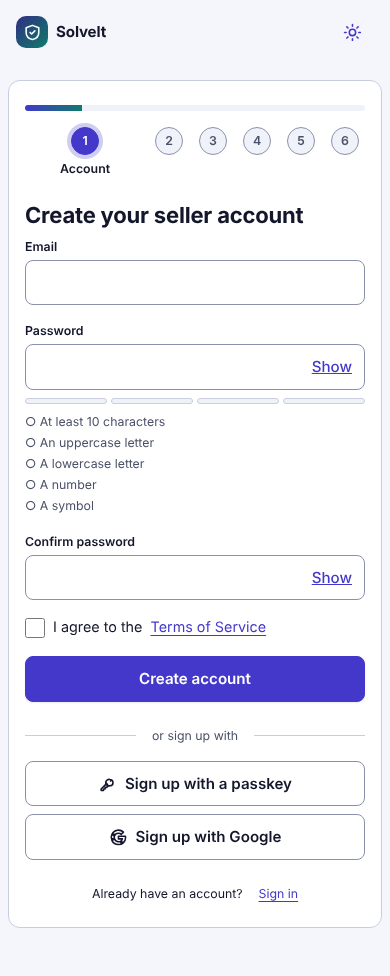
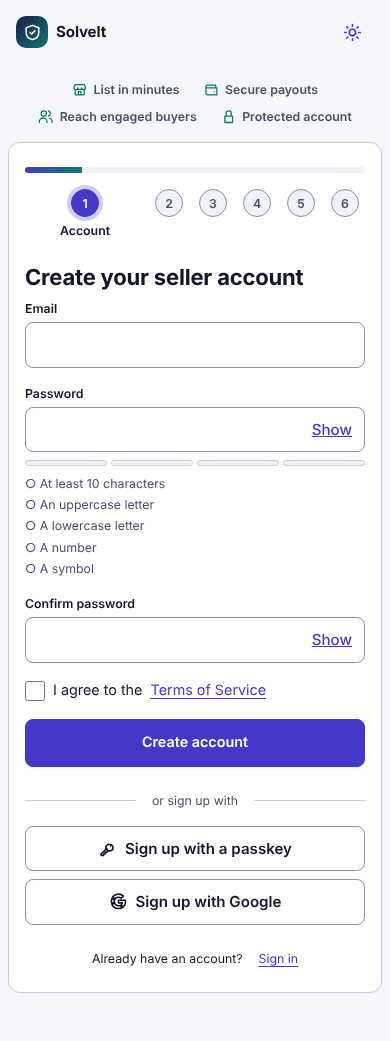
Marketplace-style auth: seller brand panel with storefront mock-up, top-bar cross-link, signup benefits strip; refreshed screenshots
Claude-Session: https://claude.ai/code/session_018hZb8p3U4e1ZXzoHRqf6yf

diff --git a/src/components/ui.tsx b/src/components/ui.tsx
@@ -1,5 +1,5 @@
 import { Children, forwardRef, useEffect, useId, useState, type ButtonHTMLAttributes, type InputHTMLAttributes, type ReactNode } from 'react'
-import { Link } from 'react-router-dom'
+import { Link, useLocation } from 'react-router-dom'
 import { passwordChecks } from '../lib/password'
 
 export function Alert({ children, kind = 'error' }: { children?: ReactNode; kind?: 'error' | 'info' | 'success' }) {
@@ -64,6 +64,10 @@ const PATHS = {
   sun: 'M12 8a4 4 0 100 8 4 4 0 000-8zM12 2v2M12 20v2M4.900 4.900l1.400 1.400M17.700 17.700l1.400 1.400M2 12h2M20 12h2M4.900 19.100l1.400-1.400M17.700 6.300l1.400-1.400',
   moon: 'M21 13A9 9 0 1111 3a7 7 0 0010 10z',
   lock: 'M6 11h12v10H6zM8 11V7a4 4 0 018 0v4',
+  store: 'M3 9l1.5-5h15L21 9M3 9a3 3 0 006 0 3 3 0 006 0 3 3 0 006 0M5 12v8h14v-8M10 20v-5h4v5',
+  wallet: 'M3 7a2 2 0 012-2h13v4M3 7v11a2 2 0 002 2h15V9H5a2 2 0 01-2-2zM16 14.5h.01',
+  users: 'M9 11a4 4 0 100-8 4 4 0 000 8zM2 21v-1a6 6 0 0112 0v1M16 3.100a4 4 0 010 7.800M22 21v-1a6 6 0 00-4-5.600',
+  star: 'M12 3l2.800 5.700 6.200.9-4.500 4.400 1 6.200L12 17.200 6.500 20.200l1-6.200L3 9.600l6.200-.9z',
   save: 'M5 3h11l3 3v15H5zM8 3v5h7V3M8 21v-7h8v7',
 } as const
 export type IconName = keyof typeof PATHS
@@ -103,25 +107,34 @@ export function Logo() {
 
 /** Page shell: brand panel (desktop, auth screens) + top bar with theme toggle. */
 export function Shell({ children, split }: { children: ReactNode; split?: boolean }) {
+  const { pathname } = useLocation()
+  const cross = !split ? null : pathname.startsWith('/signup') ? { q: 'Already selling?', to: '/login', t: 'Sign in' } : pathname === '/login' ? { q: 'New to Solvelt?', to: '/signup', t: 'Start selling' } : null
   return (
     <div className={split ? 'shell split' : 'shell'}>
       {split && (
         <aside className="shell-brand" aria-hidden="true">
           <span className="logo"><span className="logo-mark"><Icon name="shield" /></span><span>Solvelt</span></span>
           <div className="brand-copy">
-            <h2>Sell to the whole community.</h2>
-            <p>One portal for your storefront, kosher certification and payouts.</p>
+            <span className="brand-eyebrow">Solvelt for sellers</span>
+            <h2>Open your shop. Reach more buyers.</h2>
+            <p>Join the marketplace built for the community: list your products, get approved fast and get paid securely.</p>
+            <div className="shop-mock">
+              <div className="shop-bar"><Icon name="store" /> <b>Your storefront</b><span className="pill">Live</span></div>
+              <div className="shop-grid">
+                {['t1', 't2', 't3', 't4', 't5', 't6'].map((t) => <div key={t} className={`tile ${t}`}><i /><span /></div>)}
+              </div>
+            </div>
             <ul className="brand-points">
-              <li><Icon name="lock" /> Passkeys and two-step verification keep your account yours</li>
-              <li><Icon name="save" /> Your application saves as you go</li>
-              <li><Icon name="check" /> Most applications are reviewed within two business days</li>
+              <li><span className="bp-ic"><Icon name="store" /></span><span><b>List in minutes</b><br />Set up your storefront and add products as soon as you are approved.</span></li>
+              <li><span className="bp-ic"><Icon name="wallet" /></span><span><b>Secure payouts</b><br />Clear fees, protected payments and reliable payouts.</span></li>
+              <li><span className="bp-ic"><Icon name="users" /></span><span><b>A community of buyers</b><br />Get discovered by shoppers who already trust the marketplace.</span></li>
             </ul>
           </div>
-          <div className="brand-foot">© Solvelt · Secured sign-in</div>
+          <div className="brand-foot"><span><Icon name="lock" /> Secured sign-in with passkeys and 2-step verification</span><span>© Solvelt</span></div>
         </aside>
       )}
       <div className="shell-main">
-        <div className="topbar">{split ? <span className="logo-mini-spacer" /> : null}<Logo /><span className="spacer" /><ThemeToggle /></div>
+        <div className="topbar">{split ? <span className="logo-mini-spacer" /> : null}<Logo /><span className="spacer" />{cross && <span className="topbar-cross"><span className="topbar-q">{cross.q}</span> <Link className="btn topbar-cta" to={cross.to}>{cross.t}</Link></span>}<ThemeToggle /></div>
         <div className="shell-content">{children}</div>
       </div>
     </div>

diff --git a/src/styles.css b/src/styles.css
@@ -7,7 +7,7 @@
   --primary: #4338ca; --primary-hover: #3730a3; --primary-fg: #ffffff; --primary-soft: #e8e9fb;
   --accent: #0e7c6b;
   --err: #b42318; --err-soft: #fdecea; --ok: #067647; --ok-soft: #e3f6ec; --info-soft: #e8e9fb; --warn: #8a5a00;
-  --ring: #6366f1; --brand-from: #312e81; --brand-to: #0e7c6b; --brand-fg: #ffffff;
+  --ring: #6366f1; --brand-from: #1e1b4b; --brand-to: #0f766e; --brand-fg: #ffffff;
   /* type: fluid scale, system font stack (no webfont requests, no layout shift) */
   --font: system-ui, -apple-system, 'Segoe UI', Roboto, 'Helvetica Neue', sans-serif;
   --fs-sm: clamp(.8125rem, .79rem + .1vw, .875rem); --fs-base: clamp(.9375rem, .91rem + .15vw, 1rem);
@@ -153,3 +153,28 @@ pre { background: var(--surface-2); padding: var(--s2); border-radius: var(--r-s
 
 .app-header ~ .shell .topbar { display: none; }
 .app-header a { text-decoration: none; font-weight: 600; } .app-header { flex-wrap: wrap; }
+
+/* ---- marketplace look: seller panel, storefront mock, top-bar cross link ---- */
+.brand-eyebrow { display: inline-block; font-size: var(--fs-sm); font-weight: 700; letter-spacing: .08em; text-transform: uppercase; background: rgba(255,255,255,.16); padding: 4px 12px; border-radius: var(--r-pill); margin-bottom: var(--s2); }
+.shop-mock { margin: var(--s3) 0; background: rgba(255,255,255,.96); color: #14172b; border-radius: var(--r-md); padding: var(--s2); box-shadow: var(--shadow-3); max-width: 420px; transform: rotate(-1.5deg); }
+.shop-bar { display: flex; align-items: center; gap: var(--s1); margin-bottom: var(--s1); font-size: var(--fs-sm); } .shop-bar .pill { margin-left: auto; background: #e3f6ec; color: #067647; font-weight: 700; font-size: .75rem; padding: 2px 10px; border-radius: var(--r-pill); }
+.shop-grid { display: grid; grid-template-columns: repeat(3, 1fr); gap: var(--s1); }
+.tile { border-radius: var(--r-sm); background: #f0f2f9; padding: 6px; } .tile i { display: block; aspect-ratio: 1; border-radius: 6px; background: linear-gradient(135deg, var(--c1), var(--c2)); } .tile span { display: block; height: 6px; width: 60%; background: #c9cde0; border-radius: 3px; margin-top: 6px; }
+.t1 { --c1: #fbbf24; --c2: #f97316; } .t2 { --c1: #a5b4fc; --c2: #6366f1; } .t3 { --c1: #5eead4; --c2: #0d9488; } .t4 { --c1: #fda4af; --c2: #e11d48; } .t5 { --c1: #bef264; --c2: #65a30d; } .t6 { --c1: #fcd34d; --c2: #b45309; }
+.brand-points { gap: var(--s2); } .brand-points li { align-items: flex-start; line-height: 1.4; } .brand-points b { font-size: var(--fs-base); }
+.bp-ic { flex: none; width: 36px; height: 36px; border-radius: 10px; background: rgba(255,255,255,.16); display: inline-flex; align-items: center; justify-content: center; }
+.brand-foot { display: flex; justify-content: space-between; gap: var(--s2); flex-wrap: wrap; }
+.topbar-cross { display: inline-flex; align-items: center; gap: var(--s1); font-size: var(--fs-sm); } .topbar-q { color: var(--muted); }
+.topbar-cta { min-height: 40px; padding: 6px 16px; border-radius: var(--r-pill); font-size: var(--fs-sm); }
+@media (max-width: 559px) { .topbar-q { display: none; } .shop-mock { display: none; } }
+@media (min-width: 960px) { .shell.split .shell-brand { overflow: auto; } .shell.split .logo-mini-spacer + .logo { display: none; } .shell.split .topbar { padding: var(--s3) var(--s5) 0; } }
+.shell.split .card { box-shadow: var(--shadow-1); border-radius: var(--r-md); }
+.social .btn { justify-content: flex-start; padding-inline: var(--s2); } .social .btn .icon { margin-right: var(--s1); } .social .btn { position: relative; }
+.btn.primary.block { min-height: 48px; font-size: var(--fs-base); }
+
+.wizard-col { width: 100%; max-width: 760px; }
+.seller-strip { list-style: none; margin: 0 0 var(--s2); padding: 0; display: flex; flex-wrap: wrap; gap: var(--s1) var(--s3); justify-content: center; color: var(--muted); font-size: var(--fs-sm); font-weight: 600; }
+.seller-strip li { display: inline-flex; align-items: center; gap: 6px; } .seller-strip .icon { color: var(--accent); }
+.wizard-col .card.wide { max-width: none; }
+.brand-eyebrow { margin-top: var(--s3); }
+@media (min-width: 960px) and (max-height: 960px) { .shop-grid .tile:nth-child(n+4) { display: none; } .shop-mock { margin: var(--s2) 0; } .shell.split .shell-brand { padding-block: var(--s4); } }

diff --git a/src/pages/wizard/shared.tsx b/src/pages/wizard/shared.tsx
@@ -61,11 +61,19 @@ export function ProgressBar({ current }: { current: number }) {
 export function StepFrame({ index, children }: { index: number; children: ReactNode }) {
   return (
     <Shell>
+      <div className="wizard-col">
+        <ul className="seller-strip" aria-label="Why sell on Solvelt">
+          <li><Icon name="store" /> List in minutes</li>
+          <li><Icon name="wallet" /> Secure payouts</li>
+          <li><Icon name="users" /> Reach engaged buyers</li>
+          <li><Icon name="lock" /> Protected account</li>
+        </ul>
       <main className="card wide">
         <ProgressBar current={index} />
         {children}
         {index > 0 && index < 5 && <p className="saved"><Icon name="save" /> Your progress is saved. You can close this tab and pick up where you left off.</p>}
       </main>
+      </div>
     </Shell>
   )
 }

diff --git a/docs/UX-AUDIT.md b/docs/UX-AUDIT.md
@@ -33,3 +33,4 @@ Status legend: ✅ fixed · ⏳ deferred (reason given).
 | 19 | Email templates (backend `Templates.cs`) | ⏳ Backend repo could not be attached (permission denied for `add_repo`) |
 | 20 | Real-backend Playwright E2E re-run + axe in E2E | ⏳ Same reason. Axe runs in the mocked UI suite instead |
 | 21 | Before screenshots | ⏳ Not captured; only "after" are in `docs/screenshots/` |
+| 22 | Auth screens did not read as a marketplace seller portal (generic brand copy, no seller value, no cross-link between sign-in and sign-up) | ✅ Seller panel (storefront mock-up, listing / payouts / buyer benefits, security line), "New to Solvelt? Start selling" / "Already selling? Sign in" top-bar CTA, benefits strip above the signup wizard, larger primary CTA |
